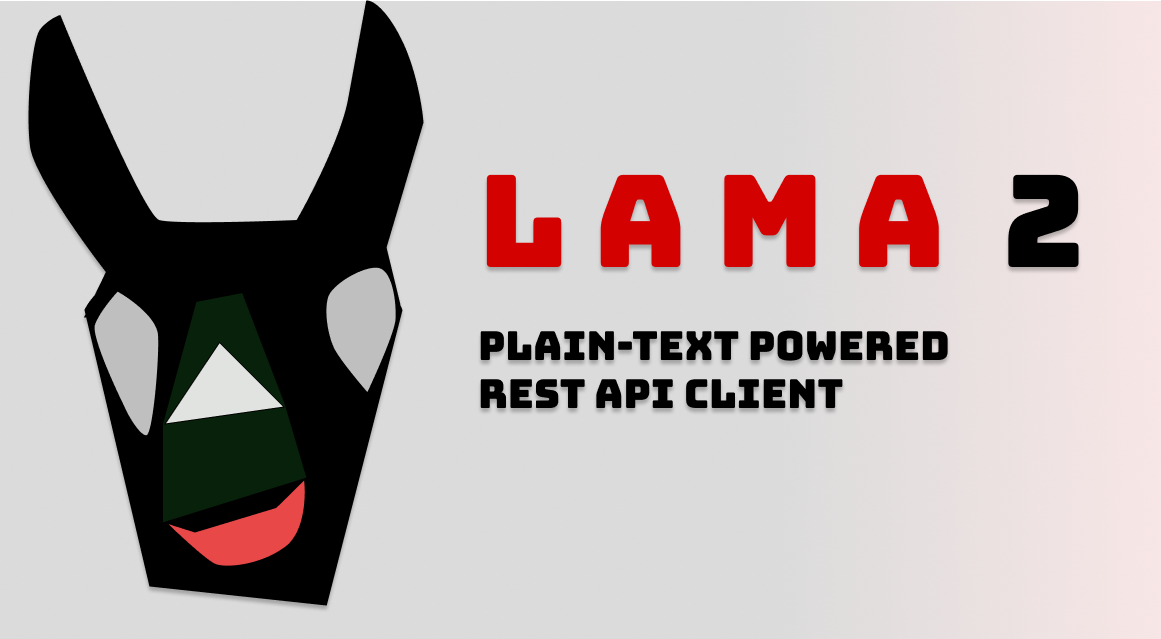
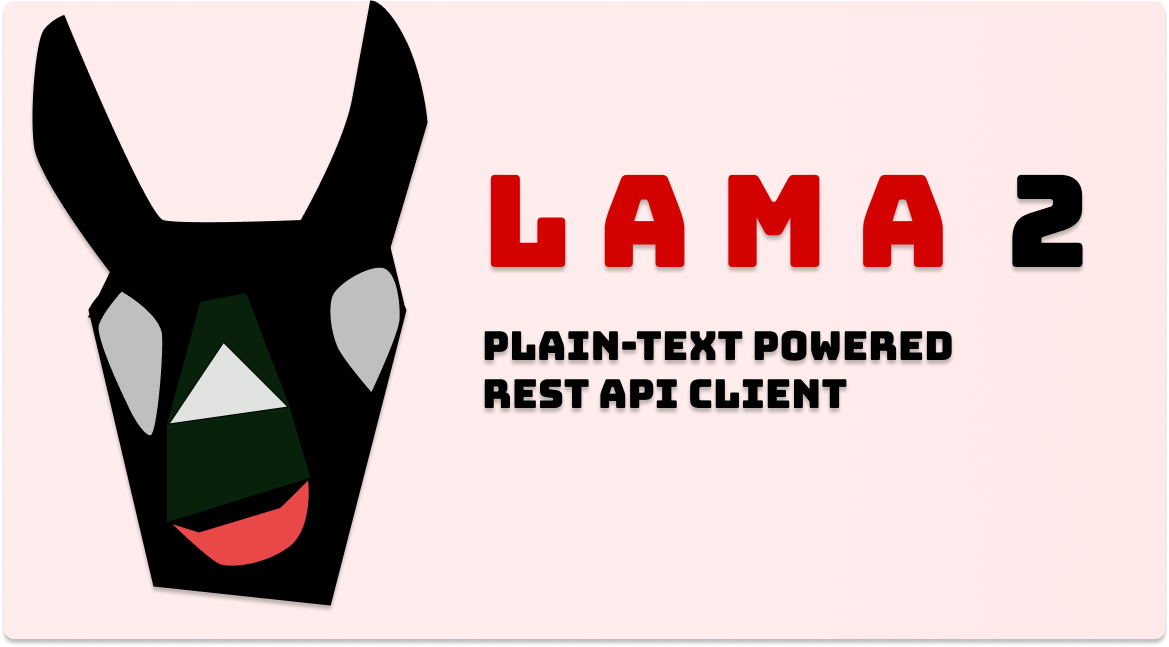
Border radius etc

diff --git a/README.md b/README.md
@@ -2,7 +2,7 @@
 
 <div align="center">
 
-<img style="border-radius:5px" src="banner.png" width="50%" />
+<img src="banner.png" width="50%" />
 </div>
 
 `Lama2` is a plain-text powered REST API client & manager. *Lama2* provides the following benefits to software engineers:
